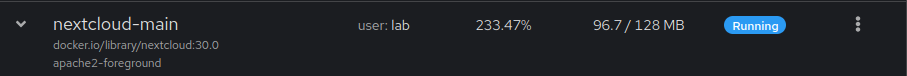
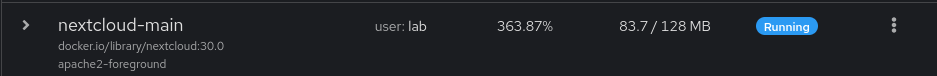
update part 4

diff --git a/content/homelab/part 4.md b/content/homelab/part 4.md
@@ -125,15 +125,31 @@ The first thing I added was a small collection of silly tech memes that I had ki
 ![[homelab_nextcloud_memes.png]]
 
 The next thing I did was employ [Google Takeout](https://takeout.google.com/) to export my entire Google Drive as one big `.tgz` (which I know how to extract thanks to `IMG.3881.jpeg` shown above!). For nearly 8 years, I've stored most of [my photography](https://www.cbarkr.com/photos) on Google Drive, so this archive is quite big. Fortunately, it's *mostly* organized, so uploading everything to Nextcloud won't be too painful.
+## Update
+My main complaint thus far is that thumbnails are *very* slow to generate. And when I say *very* slow, I mean painfully so. So much so that I want to scrap Nextcloud altogether and try something else.
 
-## Thoughts
-My only complaint thus far is that thumbnails are *very* slow to generate. Even with Redis and the [Preview Generator](https://apps.nextcloud.com/apps/previewgenerator) app installed (and configured according to [this](https://github.com/nextcloud/previewgenerator/issues/211#issuecomment-739731976)), plus [preview quality downscaled](https://docs.nextcloud.com/server/19/admin_manual/configuration_files/previews_configuration.html?highlight=thumbnail#jpeg-quality-setting), my "photo" library mostly appears as grey or blue boxes.
+Here's what I've tried to do to combat the problem, as of yet finding no success:
+1. Use Redis (as I did in this post!)
+2. [Downscale preview quality](https://docs.nextcloud.com/server/19/admin_manual/configuration_files/previews_configuration.html?highlight=thumbnail#jpeg-quality-setting) by 50%
+3. Install the [Preview Generator](https://apps.nextcloud.com/apps/previewgenerator) app (and configure it according to [this](https://github.com/nextcloud/previewgenerator/issues/211#issuecomment-739731976))
+4. Configure cron jobs (which seem to be a bit of a nightmare with Nextcloud)
 
-I was hopeful that Preview Generator would help, but I found that running the recommended `./occ preview:generate-all -vvv` command only tried the first folder in my drive before giving up. 
+I hoped the Preview Generator app specifically would help, but so far it appears to have no effect. As instructed in the docs, I ran `./occ preview:generate-all -vvv` and found that it only tries the first folder in my drive before giving up. 
 
-After some more experimentation, I found that CPU usage skyrockets while trying to generate image previews. 
+Or since cron jobs seemingly weren't working for me, I tried
+
+```bash
+podman exec -u www-data nextcloud-main php /var/www/html/cron.php
+```
+
+and found that Nextcloud literally DoS'd itself in the process. I didn't get a screenshot of that particular instance, but what follows is one I took shortly beforehand, in which CPU usage skyrockets while (presumably) trying to generate image previews:
+
 ![[homelab_cockpit_podman_preview_cpu_usage.png]]
 
-I find all this quite frustrating, and I do not wish the same frustration on others, so I will update this post if/when I find a solution.
+I still have two avenues left:
+1. Fix cron jobs
+2. Downgrade the MariaDB version (Nextcloud complains that it would prefer >=10.6 and <=11.4)
+
+If neither of these solve my problems, I shall be moving on to something else. [Seafile](https://www.seafile.com/en/home/) seems like a good option for my use case.
 ## Summary
 In this post, I discussed how to setup Nextcloud using MariaDB and Redis as user containers in Cockpit using Podman. 
